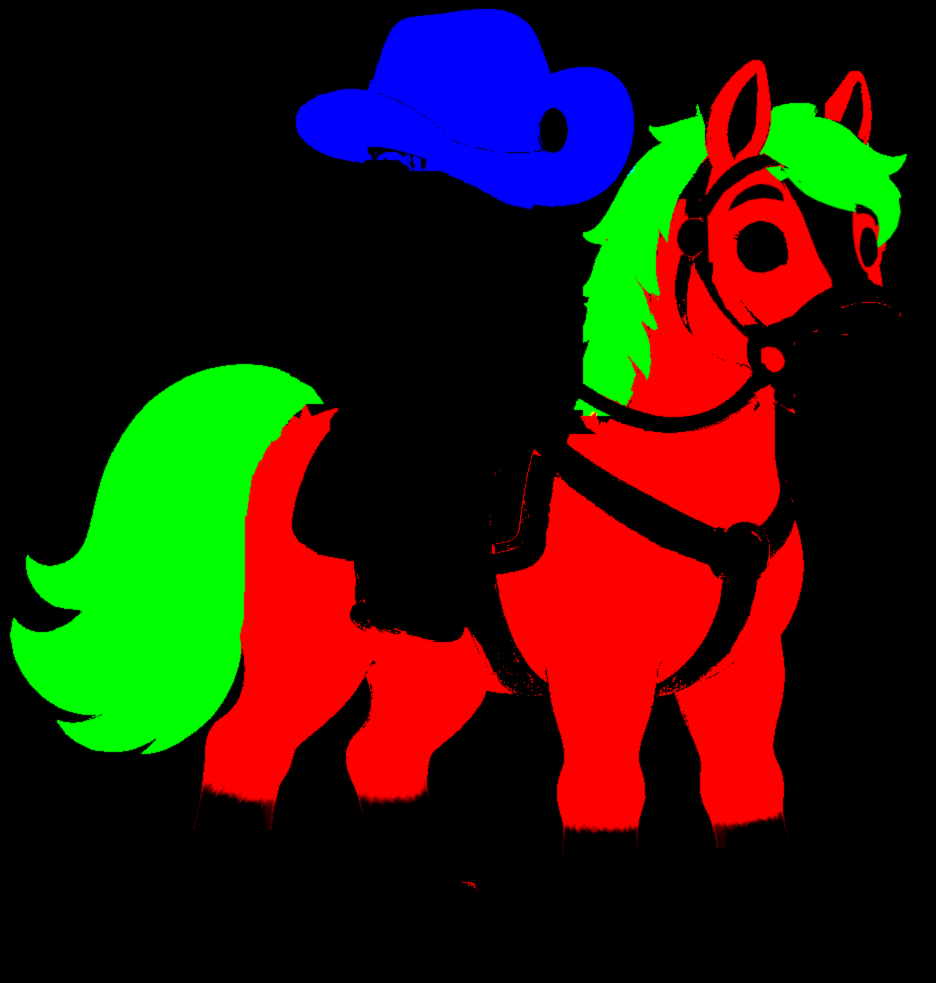
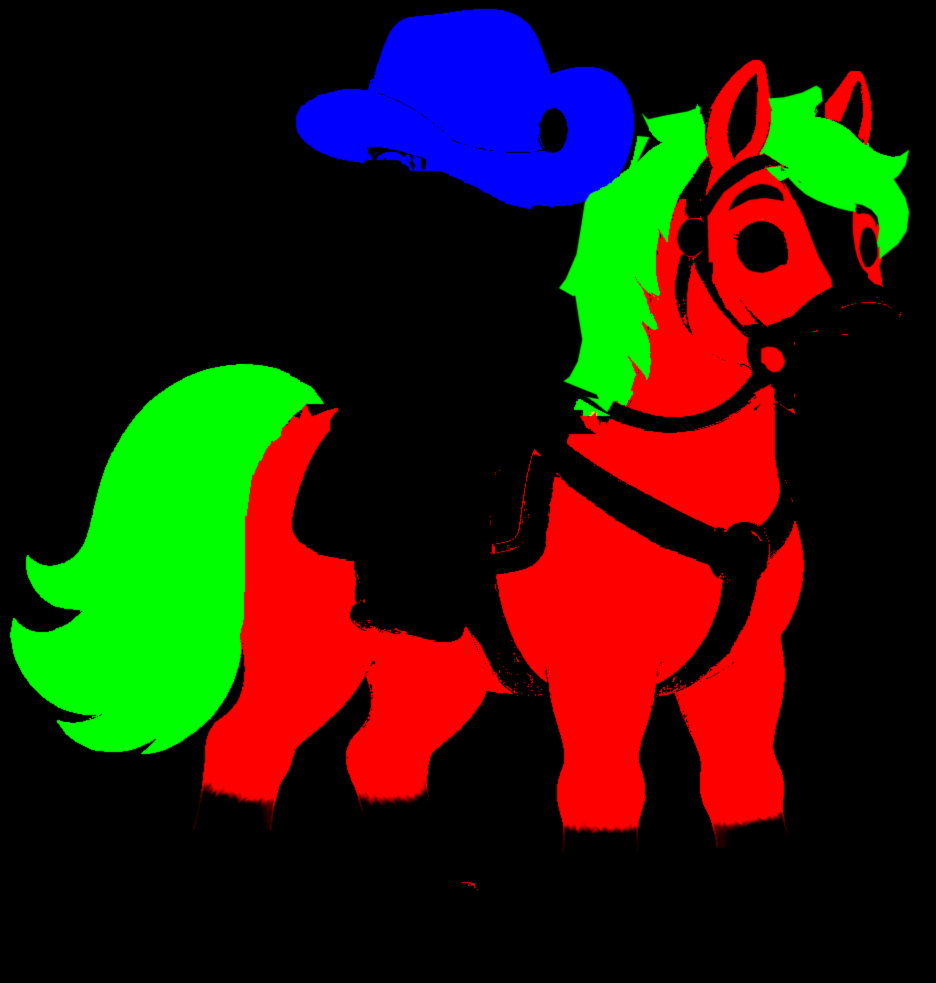
Trace exterior mane strands while protecting cowboy hat and reins

diff --git a/tools/cosmetics/build_hd_portrait.py b/tools/cosmetics/build_hd_portrait.py
@@ -106,6 +106,8 @@ def apply_paint(polys, material):
  for poly in polys:
   draw.polygon([(round(px*w*4/1313),round(py*h*4/875)) for px,py in poly],fill=255)
  weight=np.asarray(layer.resize((w,h),Image.Resampling.LANCZOS),dtype=float)[:,:,None]/255
+ # Hair strokes may touch the hat silhouette, but never own its pixels.
+ if material[1]:weight*=(~hat_region)[:,:,None]
  mask=np.rint(mask*(1-weight)+np.array(material)*weight).astype('uint8')
 apply_paint(paint['coat_add'],[255,0,0])
 apply_paint(paint.get('mane_add',[]),[0,255,0])

diff --git a/tools/cosmetics/test_hd_portrait_mask.py b/tools/cosmetics/test_hd_portrait_mask.py
@@ -23,4 +23,9 @@ for x,y in [(972,195),(991,223),(892,344)]:
  assert pixel(x,y)[0]>240,(x,y,pixel(x,y));checks+=1
 for x,y in [(983,210),(966,200)]:
  assert max(pixel(x,y))<10,(x,y,pixel(x,y));checks+=1
+for x,y in [(766,139),(760,149)]:
+ assert pixel(x,y)[1]<10 and pixel(x,y)[2]>240,(x,y,pixel(x,y));checks+=1
+for x,y in [(1009,189),(940,82),(745,244)]:
+ assert pixel(x,y)[1]>240,(x,y,pixel(x,y));checks+=1
+assert pixel(887,344)[0]>240,pixel(887,344);checks+=1
 print(f'HD_PORTRAIT_MATERIAL_OWNERSHIP_PASS {checks} checks')
